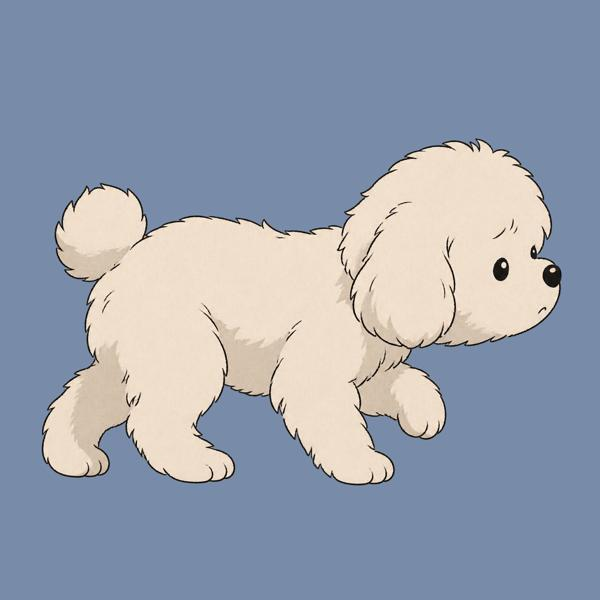
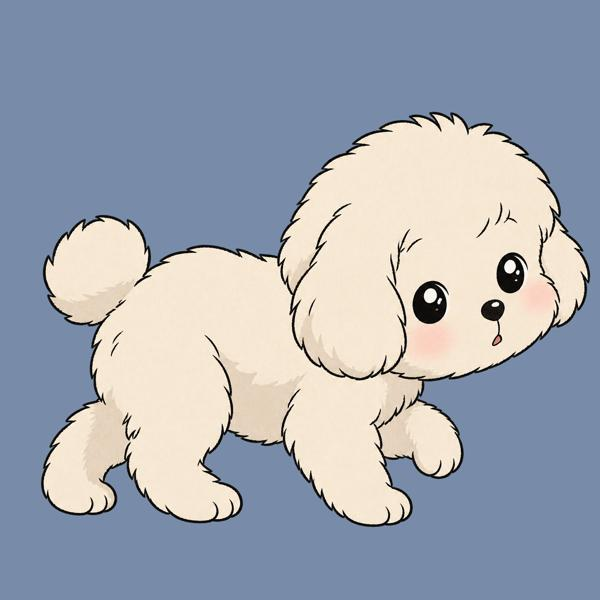
모과 기준 얼굴(정면) + 옆모습 — 엄청 귀엽게 (2cr)
Claude-Session: https://claude.ai/code/session_01R3HYWBAgs3ho9ETxqeg5kw

Changed region(s): [[0.06, 0.18, 0.99, 0.9], [0.81, 0.33, 0.87, 0.39], [0.63, 0.33, 0.69, 0.39]]

diff --git a/CONTINUITY.md b/CONTINUITY.md
@@ -20,7 +20,7 @@
 | 성격 · 표정 | 앞 = 천사(반짝 웃음) / 뒤 = 찐 직장인(정색 · 그림자) | **항상 냉정한 무표정** — 감정은 행동으로만 |
 
 - **최버터 (대리)** — 2화부터 (혁 10/29). 기준 그림 `char/butter/face/front.png`(= front-v3). 살짝 금발 · 포마드로 넘긴 번쩍 머리 + 이마에 한 가닥 · 부드럽게 처진 눈 · 능글 웃음(이 살짝) · 볼 홍조 빗금 · 연분홍 셔츠 단추 두 개 풀고 얇은 금목걸이 · 느슨한 남색 넥타이 · 남색 사원증 · 약 6등신. 성격: 느끼하고 눈치 없음, 자기 말에 취함 · **살짝 여성스러운 말투와 행동 + 과하게 오버** (혁 10/29): 새끼손가락 들기 · 손 모아 볼에 대기 · 머리 쓸어넘기기 · 윙크 · 몸 배배 꼬기 · 어깨 으쓱 · "어머~" "그치이~?" "우리 은서 씨이~". 그림 만들 때도 포즈·표정에 이 오버 몸짓 넣기. 목소리: 끝 늘이는 능글 톤, 살짝 하이톤으로 꼬는 말투.
-- **모과 (은서네 강아지)** — 3화부터 (혁 10/30). 흰색 말티푸 · 테디베어 컷 · 동글 머리에 짧은 주둥이 · 까만 단추 코 · 작은 까만 점 눈(큰 반짝 눈 X) · 볼에 붙은 짧은 귀 · 크림빛 흰 곱슬 털 · 짧은 다리 · 동그란 꼬리. 기준 `char/mogwa/side.png`(옆모습). 말 안 함, 표정 + 자막으로 속마음.
+- **모과 (은서네 강아지)** — 3화부터 (혁 10/30). 흰색 말티푸 · 테디베어 컷 · 동글 머리에 짧은 주둥이 · 까만 단추 코 · 크고 동그란 까만 눈 · 볼에 붙은 짧은 귀 · 크림빛 흰 곱슬 털 · 짧은 다리 · 동그란 꼬리. 기준 얼굴 `char/mogwa/front.png` · 옆모습 `side.png` (혁 10/30: 엄청 귀엽게 — 큰 머리 · 큰 까만 눈 반짝 두 개 · 볼 분홍). 말 안 함, 표정 + 자막으로 속마음.
 - 1화 첫 등장에 이름 자막: `tools/name_card.py` — 은서 (사원) · 강서늘 (팀장) — 평범한 글꼴 흰 글자 + 검정 테두리, 화면 아래 가운데.
 
 ## 3. 목소리 · 말투
